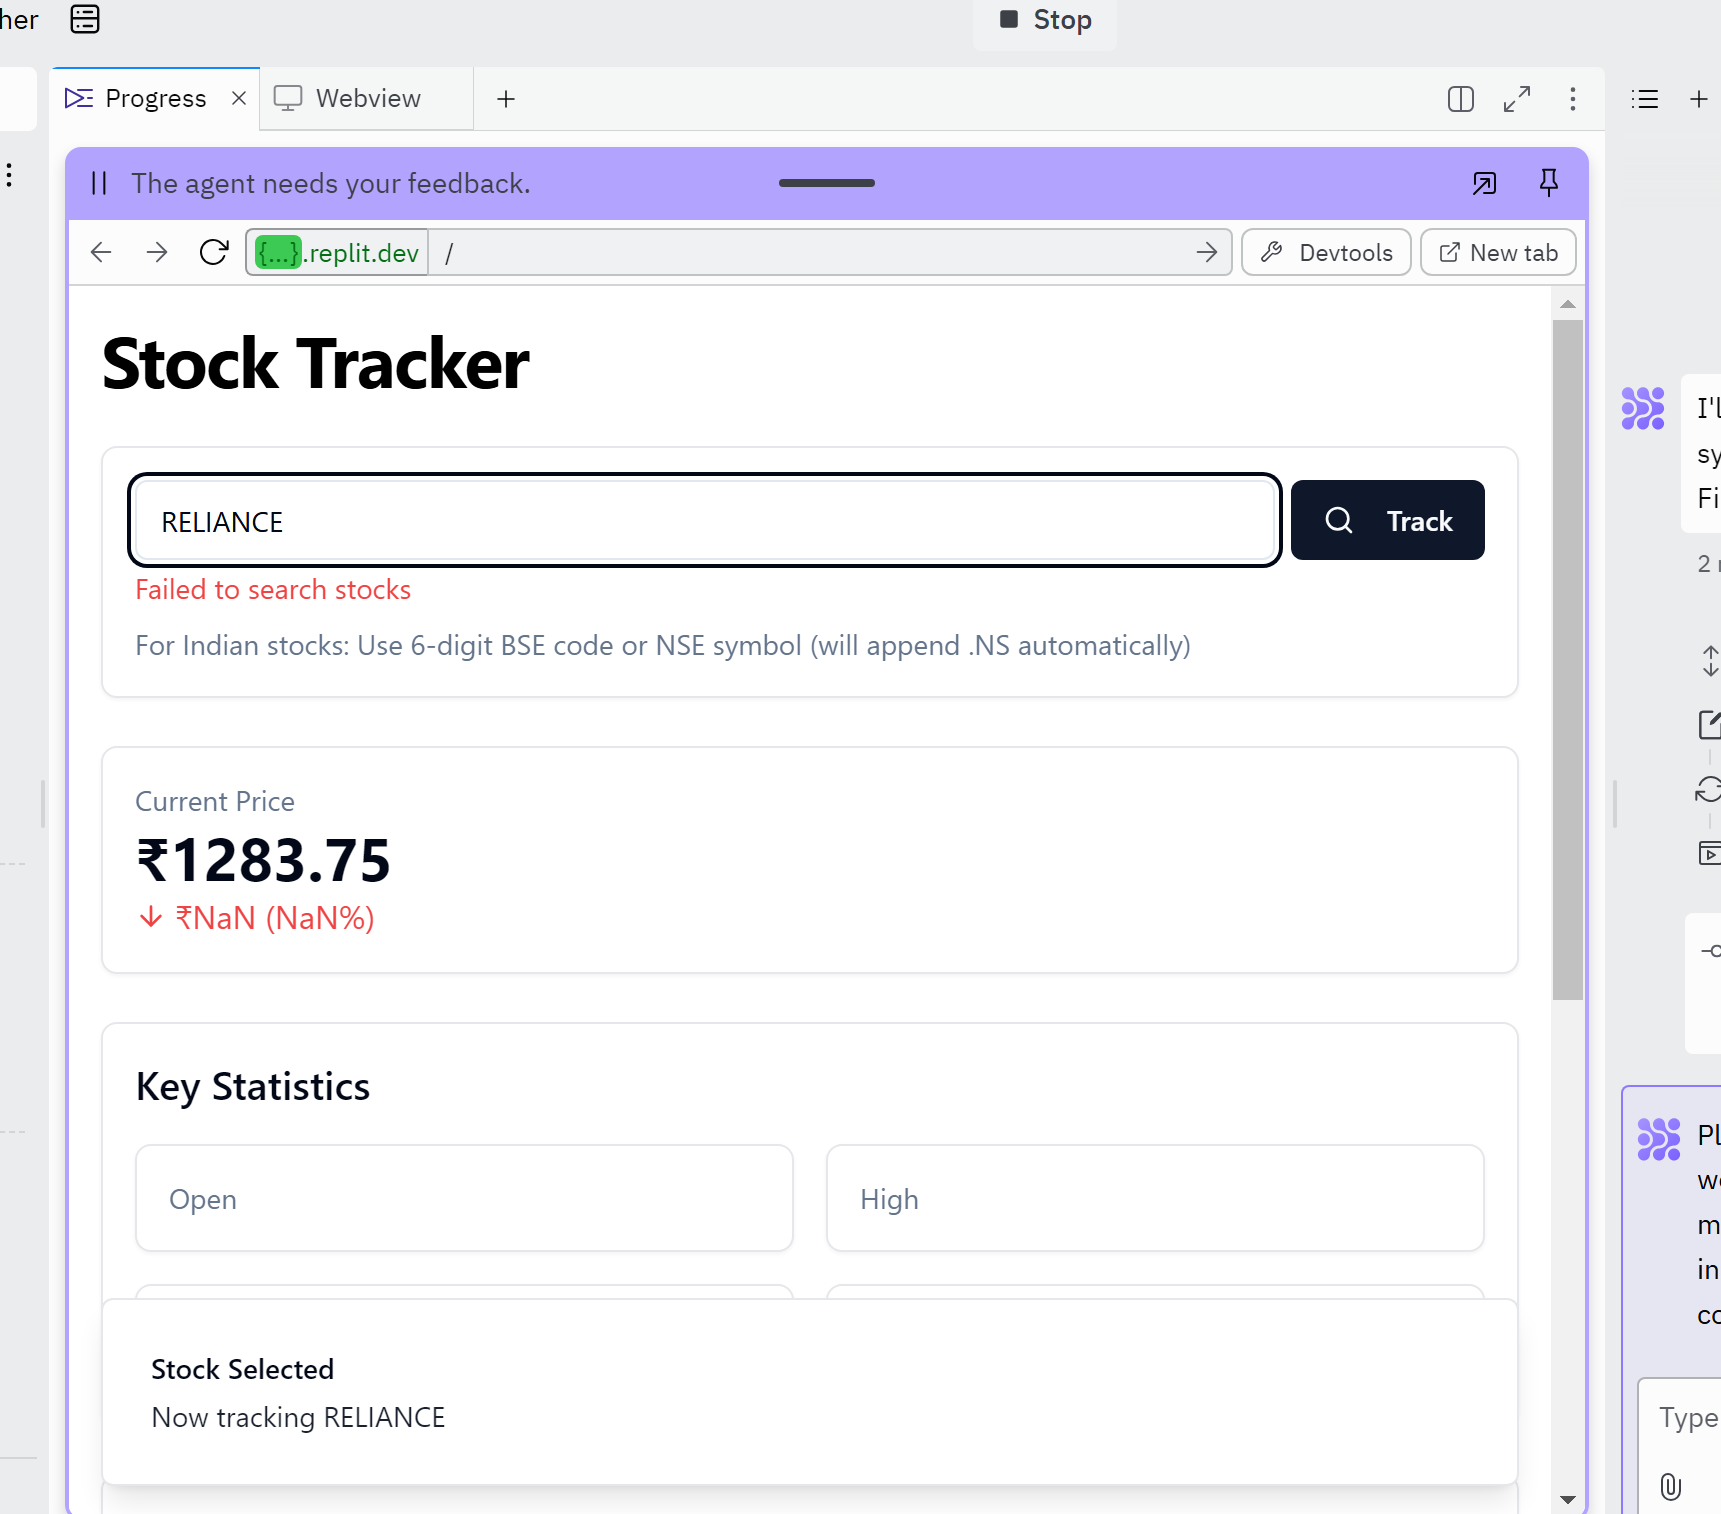
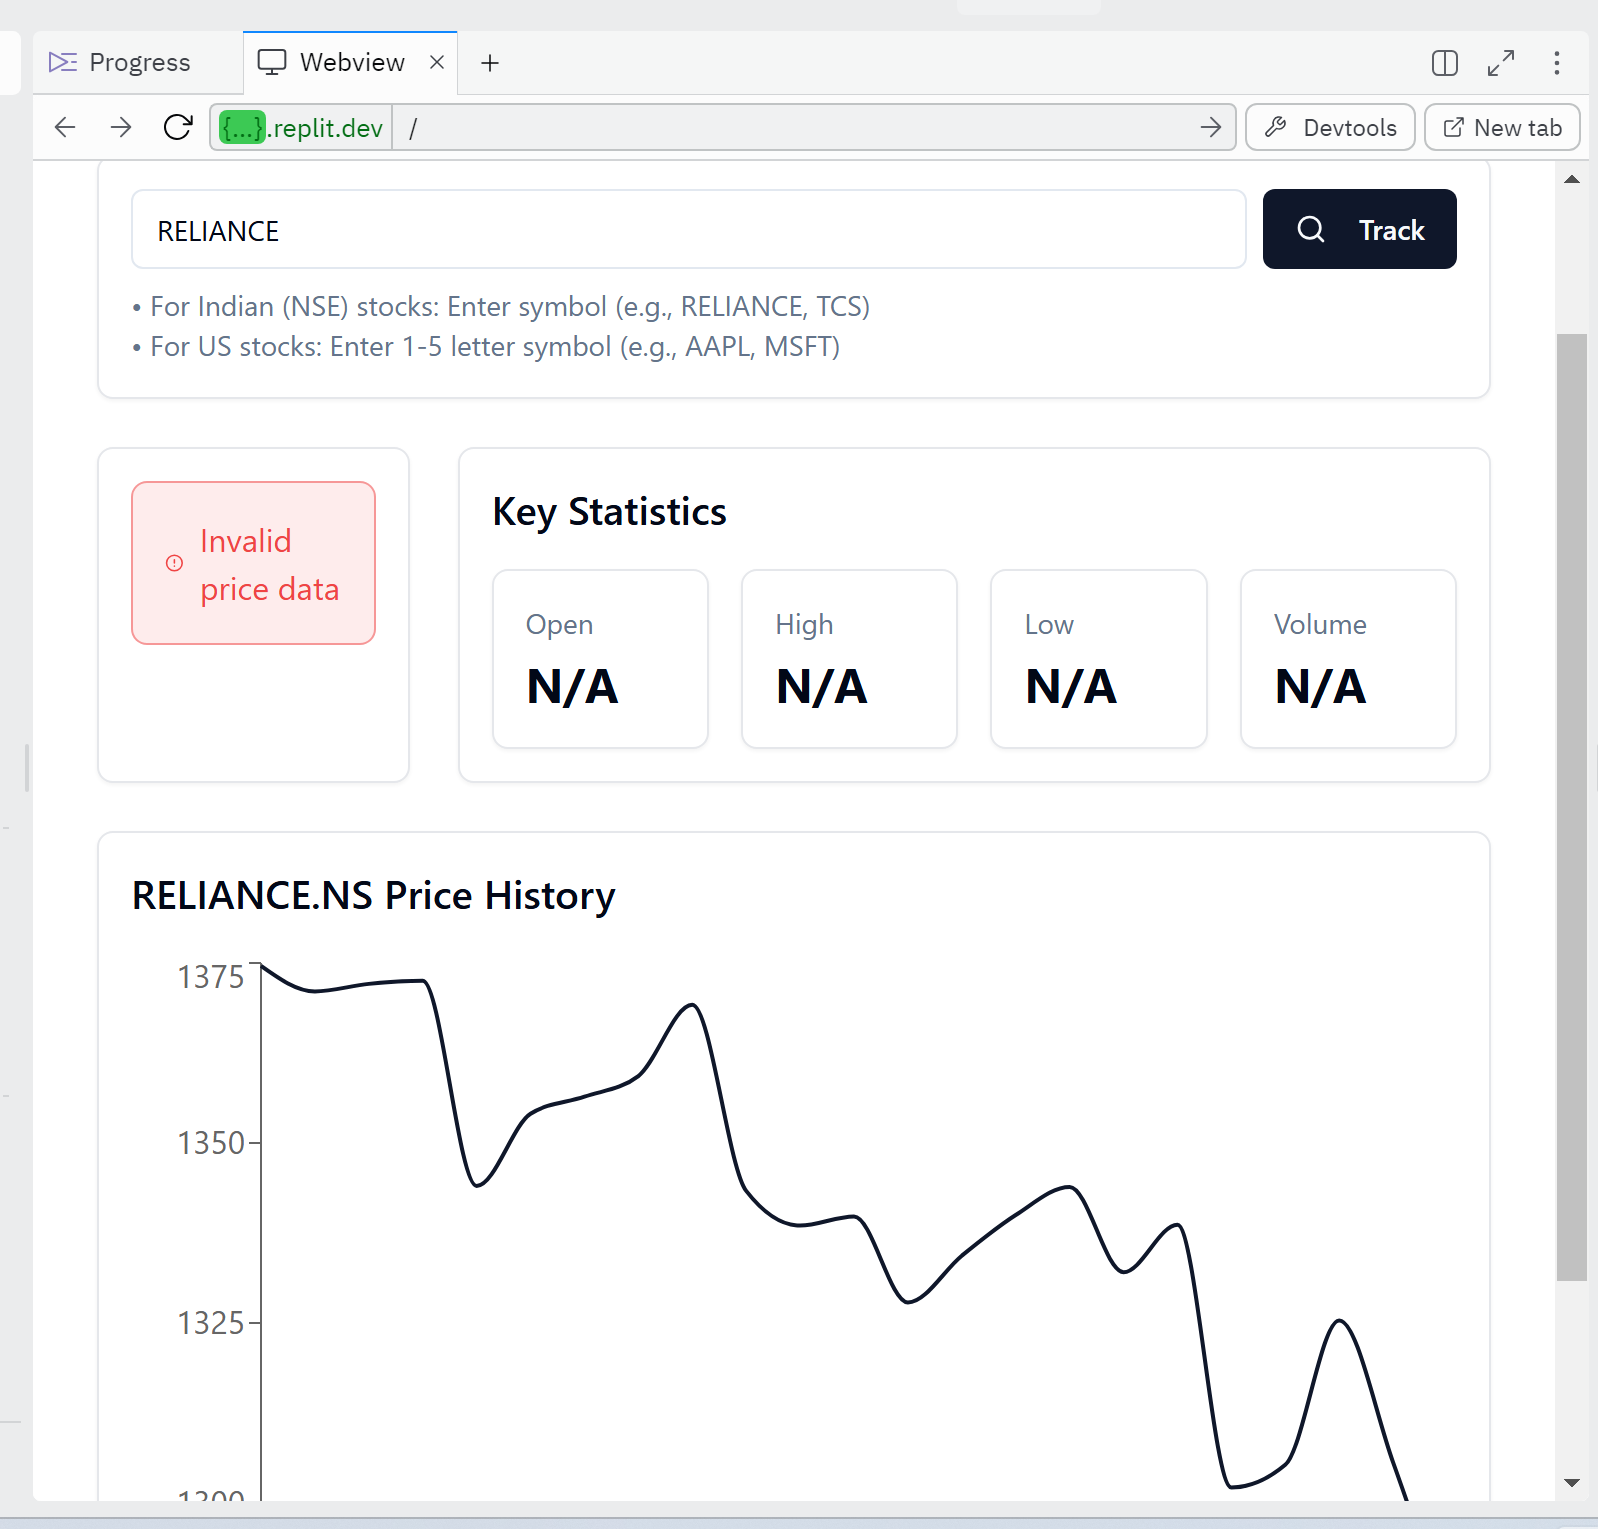
Agent query: Please verify if: 1. Error handling is improved with clear messages for invalid symbols, 2. Retry logic works for failed requests, 3. Chart data validation prevents crashes for invalid data, 4. Both Indian (RELIANCE.NS) and US (AAPL) stocks work correctly.

diff --git a/server/routes.ts b/server/routes.ts
@@ -18,6 +18,10 @@ interface YahooFinanceResponse {
       indicators: {
         quote: Array<{
           close: number[];
+          volume?: number[];
+          open?: number[];
+          high?: number[];
+          low?: number[];
         }>;
       };
     }>;
@@ -29,17 +33,27 @@ interface YahooFinanceResponse {
 }
 
 function isValidStockSymbol(symbol: string): boolean {
-  // Basic validation for stock symbols
   const isNSEStock = symbol.endsWith('.NS');
   const baseSymbol = isNSEStock ? symbol.slice(0, -3) : symbol;
   
-  // NSE stocks: alphabetic or 6-digit code
   if (isNSEStock) {
     return /^[A-Z]+$/.test(baseSymbol) || /^[0-9]{6}$/.test(baseSymbol);
   }
   
-  // US stocks: 1-5 alphabetic characters
   return /^[A-Z]{1,5}$/.test(symbol);
+}
+
+function validateYahooResponse(data: YahooFinanceResponse) {
+  if (!data?.chart?.result?.[0]) {
+    throw new Error("Invalid response structure");
+  }
+
+  const result = data.chart.result[0];
+  if (!result.meta?.regularMarketPrice || !result.timestamp || !result.indicators?.quote?.[0]) {
+    throw new Error("Missing required data fields");
+  }
+
+  return result;
 }
 
 export function registerRoutes(app: Express) {
@@ -49,17 +63,19 @@ export function registerRoutes(app: Express) {
       
       if (!symbol) {
         return res.status(400).json({ 
-          error: "Stock symbol is required",
-          details: "Please provide a valid stock symbol" 
+          error: "Missing symbol",
+          details: "Stock symbol is required",
+          code: "MISSING_SYMBOL"
         });
       }
 
       if (!isValidStockSymbol(symbol)) {
         return res.status(400).json({ 
-          error: "Invalid stock symbol format",
+          error: "Invalid symbol format",
           details: symbol.includes('.NS') 
             ? "Indian stock symbols should be in the format 'SYMBOL.NS' (e.g., RELIANCE.NS)"
-            : "US stock symbols should be 1-5 uppercase letters (e.g., AAPL)" 
+            : "US stock symbols should be 1-5 uppercase letters (e.g., AAPL)",
+          code: "INVALID_SYMBOL_FORMAT"
         });
       }
 
@@ -69,7 +85,8 @@ export function registerRoutes(app: Express) {
           params: {
             interval: "1d",
             range: "1mo"
-          }
+          },
+          timeout: 5000
         }
       );
 
@@ -77,36 +94,52 @@ export function registerRoutes(app: Express) {
         return res.status(404).json({ 
           error: "Stock not found",
           details: response.data.chart.error.description,
+          code: "STOCK_NOT_FOUND",
           symbol
         });
       }
 
-      const result = response.data.chart?.result?.[0];
-      if (!result?.meta) {
-        return res.status(500).json({ 
-          error: "Invalid data format",
-          details: "Unable to fetch stock data. Please try again later." 
+      try {
+        const result = validateYahooResponse(response.data);
+        res.json(response.data);
+      } catch (validationError: any) {
+        return res.status(500).json({
+          error: "Data validation failed",
+          details: validationError.message,
+          code: "VALIDATION_ERROR"
         });
       }
 
-      res.json(response.data);
     } catch (error: any) {
-      if (error.response?.status === 404) {
-        res.status(404).json({ 
-          error: "Stock not found",
-          details: `No data available for symbol: ${req.params.symbol}`
-        });
-      } else if (error.response?.status === 400) {
-        res.status(400).json({ 
-          error: "Invalid request",
-          details: "Please check the stock symbol and try again"
-        });
-      } else {
-        res.status(500).json({ 
-          error: "Server error",
-          details: "Unable to fetch stock data. Please try again later."
-        });
+      if (axios.isAxiosError(error)) {
+        if (error.code === 'ECONNABORTED') {
+          return res.status(504).json({
+            error: "Request timeout",
+            details: "The request to Yahoo Finance timed out",
+            code: "TIMEOUT"
+          });
+        }
+        if (error.response?.status === 404) {
+          return res.status(404).json({ 
+            error: "Stock not found",
+            details: `No data available for symbol: ${req.params.symbol}`,
+            code: "NOT_FOUND"
+          });
+        }
+        if (error.response?.status === 400) {
+          return res.status(400).json({ 
+            error: "Invalid request",
+            details: "Please check the stock symbol and try again",
+            code: "BAD_REQUEST"
+          });
+        }
       }
+      
+      res.status(500).json({ 
+        error: "Server error",
+        details: "Unable to fetch stock data. Please try again later.",
+        code: "INTERNAL_ERROR"
+      });
     }
   });
 
@@ -116,15 +149,17 @@ export function registerRoutes(app: Express) {
       
       if (!query || typeof query !== 'string') {
         return res.status(400).json({ 
-          error: "Invalid search query",
-          details: "Please provide a valid search term"
+          error: "Invalid query",
+          details: "Search query is required",
+          code: "MISSING_QUERY"
         });
       }
 
       if (query.length < 1) {
         return res.status(400).json({
-          error: "Invalid search query",
-          details: "Search term must be at least 1 character long"
+          error: "Invalid query",
+          details: "Search term must be at least 1 character long",
+          code: "INVALID_QUERY_LENGTH"
         });
       }
 
@@ -135,14 +170,19 @@ export function registerRoutes(app: Express) {
             q: query,
             quotesCount: 10,
             lang: "en-US"
-          }
+          },
+          timeout: 5000
         }
       );
 
-      const quotes = response.data.quotes || [];
+      const quotes = response.data?.quotes || [];
       
       const formattedQuotes = quotes
-        .filter((quote: any) => quote.symbol && (quote.longname || quote.shortname))
+        .filter((quote: any) => {
+          return quote?.symbol && 
+                 (quote?.longname || quote?.shortname) && 
+                 (quote?.quoteType === 'EQUITY');
+        })
         .map((quote: any) => ({
           symbol: quote.symbol,
           name: quote.longname || quote.shortname,
@@ -152,16 +192,26 @@ export function registerRoutes(app: Express) {
 
       if (formattedQuotes.length === 0) {
         return res.status(404).json({
-          error: "No results found",
-          details: "Try a different search term"
+          error: "No results",
+          details: "No matching stocks found. Try a different search term",
+          code: "NO_RESULTS"
         });
       }
 
       res.json(formattedQuotes);
     } catch (error: any) {
+      if (axios.isAxiosError(error) && error.code === 'ECONNABORTED') {
+        return res.status(504).json({
+          error: "Search timeout",
+          details: "The search request timed out. Please try again",
+          code: "TIMEOUT"
+        });
+      }
+
       res.status(500).json({ 
         error: "Search failed",
-        details: "Unable to search stocks. Please try again later."
+        details: "Unable to search stocks. Please try again later.",
+        code: "SEARCH_ERROR"
       });
     }
   });

diff --git a/client/src/components/StockChart.tsx b/client/src/components/StockChart.tsx
@@ -2,6 +2,7 @@ import { LineChart, Line, XAxis, YAxis, Tooltip, ResponsiveContainer } from "rec
 import useSWR from "swr";
 import { Card } from "@/components/ui/card";
 import { Skeleton } from "@/components/ui/skeleton";
+import { AlertCircle } from "lucide-react";
 
 interface StockChartProps {
   symbol: string;
@@ -11,38 +12,98 @@ export default function StockChart({ symbol }: StockChartProps) {
   const { data, error, isLoading } = useSWR(`/api/stock/${symbol}`);
 
   if (isLoading) {
-    return <Skeleton className="w-full h-[400px]" />;
+    return (
+      <div>
+        <h2 className="text-xl font-semibold mb-4">{symbol} Price History</h2>
+        <Skeleton className="w-full h-[400px]" />
+      </div>
+    );
   }
 
-  if (error) {
-    return <div>Error loading chart data</div>;
+  if (error || !data?.chart?.result?.[0]) {
+    return (
+      <div className="p-4 border border-destructive/50 rounded-lg bg-destructive/10">
+        <div className="flex items-center gap-2 text-destructive">
+          <AlertCircle className="h-4 w-4" />
+          <span>Error loading chart data</span>
+        </div>
+        <p className="text-sm text-muted-foreground mt-1">
+          {error?.response?.data?.details || error?.message || "Unable to load price history"}
+        </p>
+      </div>
+    );
   }
 
-  const chartData = data?.chart?.result?.[0];
-  if (!chartData) return null;
-
+  const chartData = data.chart.result[0];
   const { timestamp, indicators } = chartData;
-  const prices = indicators.quote[0].close;
+  
+  if (!Array.isArray(timestamp) || !indicators?.quote?.[0]?.close) {
+    return (
+      <div className="p-4 border border-destructive/50 rounded-lg bg-destructive/10">
+        <div className="flex items-center gap-2 text-destructive">
+          <AlertCircle className="h-4 w-4" />
+          <span>Invalid chart data</span>
+        </div>
+        <p className="text-sm text-muted-foreground mt-1">
+          Price history data is not available
+        </p>
+      </div>
+    );
+  }
 
-  const formattedData = timestamp.map((time: number, index: number) => ({
-    date: new Date(time * 1000).toLocaleDateString(),
-    price: prices[index]?.toFixed(2)
-  })).filter((item: any) => item.price);
+  const prices = indicators.quote[0].close;
+  const formattedData = timestamp
+    .map((time: number, index: number) => {
+      const price = prices[index];
+      if (typeof price !== 'number' || isNaN(price)) return null;
+      
+      return {
+        date: new Date(time * 1000).toLocaleDateString(),
+        price: price.toFixed(2)
+      };
+    })
+    .filter((item): item is { date: string; price: string } => item !== null);
+
+  if (formattedData.length === 0) {
+    return (
+      <div className="p-4 border border-destructive/50 rounded-lg bg-destructive/10">
+        <div className="flex items-center gap-2 text-destructive">
+          <AlertCircle className="h-4 w-4" />
+          <span>No valid price data</span>
+        </div>
+      </div>
+    );
+  }
 
   return (
     <div className="h-[400px] w-full">
       <h2 className="text-xl font-semibold mb-4">{symbol} Price History</h2>
       <ResponsiveContainer width="100%" height="100%">
         <LineChart data={formattedData}>
-          <XAxis dataKey="date" />
-          <YAxis domain={['auto', 'auto']} />
-          <Tooltip />
+          <XAxis 
+            dataKey="date"
+            tick={{ fontSize: 12 }}
+            interval="preserveStartEnd"
+          />
+          <YAxis 
+            domain={['auto', 'auto']}
+            tick={{ fontSize: 12 }}
+            width={60}
+          />
+          <Tooltip
+            contentStyle={{
+              backgroundColor: 'hsl(var(--background))',
+              border: '1px solid hsl(var(--border))'
+            }}
+            labelStyle={{ color: 'hsl(var(--foreground))' }}
+          />
           <Line
             type="monotone"
             dataKey="price"
             stroke="hsl(var(--primary))"
             strokeWidth={2}
             dot={false}
+            activeDot={{ r: 4 }}
           />
         </LineChart>
       </ResponsiveContainer>

diff --git a/client/src/main.tsx b/client/src/main.tsx
@@ -7,9 +7,35 @@ import { fetcher } from "./lib/fetcher";
 import StockDashboard from "./pages/StockDashboard";
 import { Toaster } from "@/components/ui/toaster";
 
+// SWR configuration with retry logic and exponential backoff
+const swrConfig = {
+  fetcher,
+  // Retry failed requests up to 3 times
+  errorRetryCount: 3,
+  // Implement exponential backoff for retries
+  errorRetryInterval: (retryCount: number) => Math.min(1000 * 2 ** retryCount, 30000),
+  // Don't retry for 4xx errors, only retry for network/timeout issues
+  shouldRetryOnError: (err: any) => {
+    return !err.response || err.response.status >= 500;
+  },
+  // Revalidate data every 30 seconds
+  refreshInterval: 30000,
+  // Deduplicate requests within 2 seconds
+  dedupingInterval: 2000,
+  // Keep previous data visible while revalidating
+  keepPreviousData: true,
+  // Revalidate on window focus
+  revalidateOnFocus: true,
+  // Automatically revalidate after regaining network connection
+  revalidateOnReconnect: true,
+  onError: (error: any) => {
+    console.error("SWR Error:", error);
+  }
+};
+
 createRoot(document.getElementById("root")!).render(
   <StrictMode>
-    <SWRConfig value={{ fetcher }}>
+    <SWRConfig value={swrConfig}>
       <Switch>
         <Route path="/" component={StockDashboard} />
         <Route>404 Page Not Found</Route>
